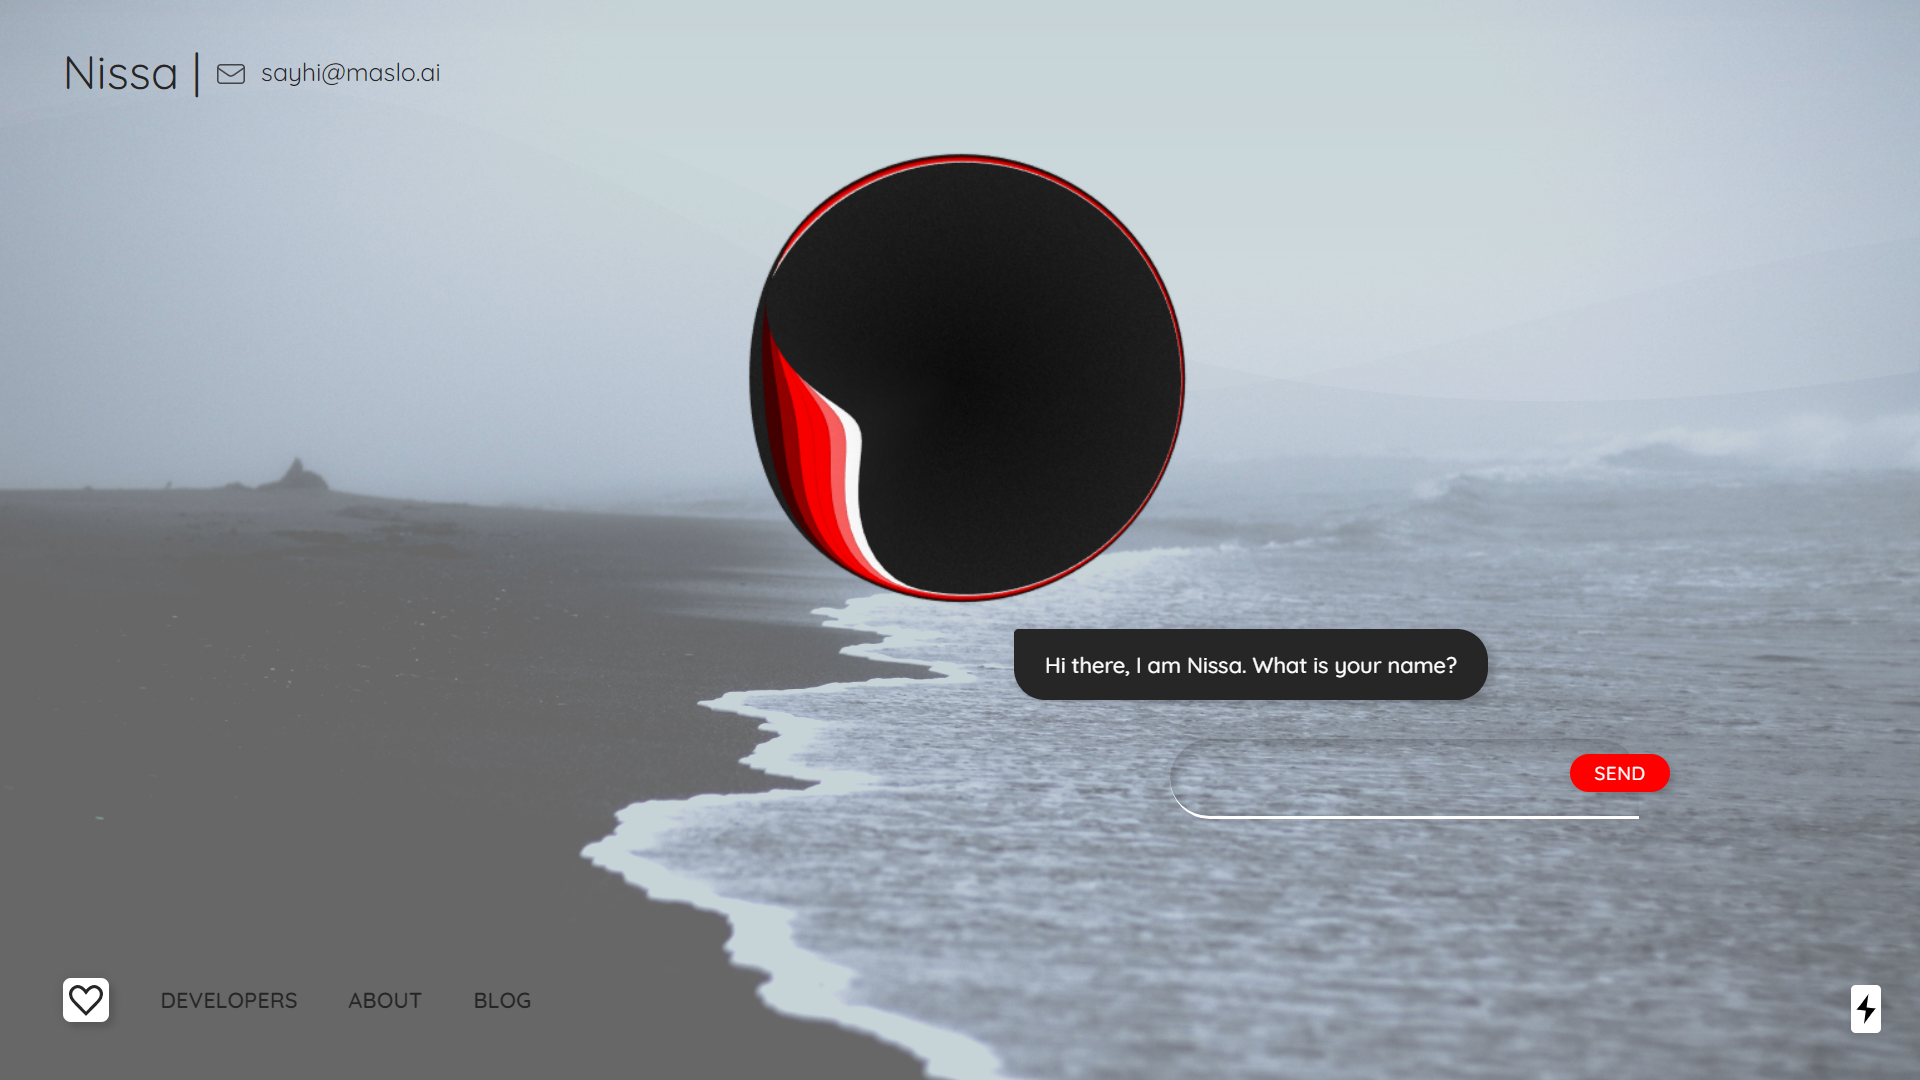
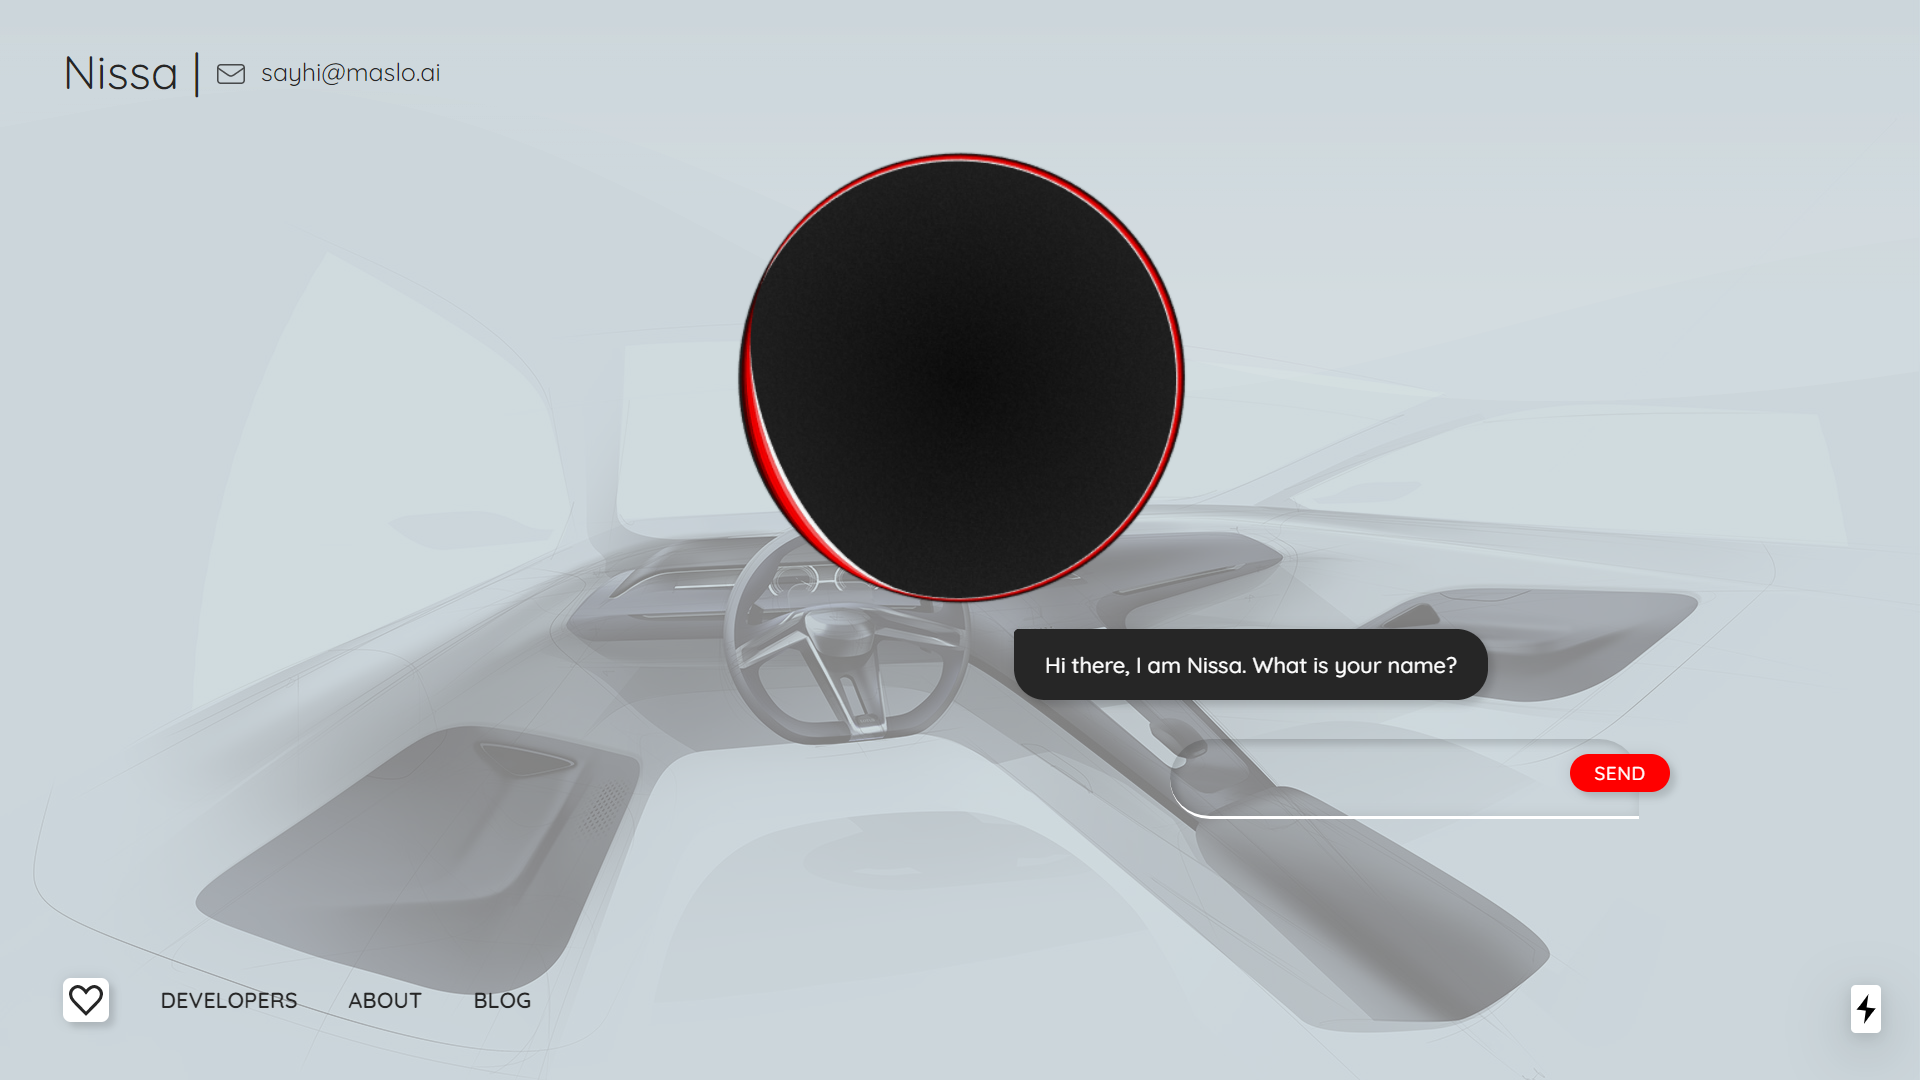
fb and bg

diff --git a/styles/components/background/index.scss b/styles/components/background/index.scss
@@ -12,10 +12,10 @@
     #{$global-bg-page-gradient-two} 51.09%,
     #{$global-bg-page-gradient-three} 105.63%
   );
-  background-image:url('https://cdn.thingiverse.com/assets/6e/83/c8/ec/4e/photo.png');
-  background-blend-mode: darken;
+  background-image:url('https://mir-s3-cdn-cf.behance.net/project_modules/fs/d80f2160115331.5a3c36513dc62.jpg');
+  background-blend-mode: multiply;
 	background-size:cover;
-	opacity:.6;
+	opacity:.5;
 	overflow:hidden;
 	background-color:#a0b6bd;
 }
